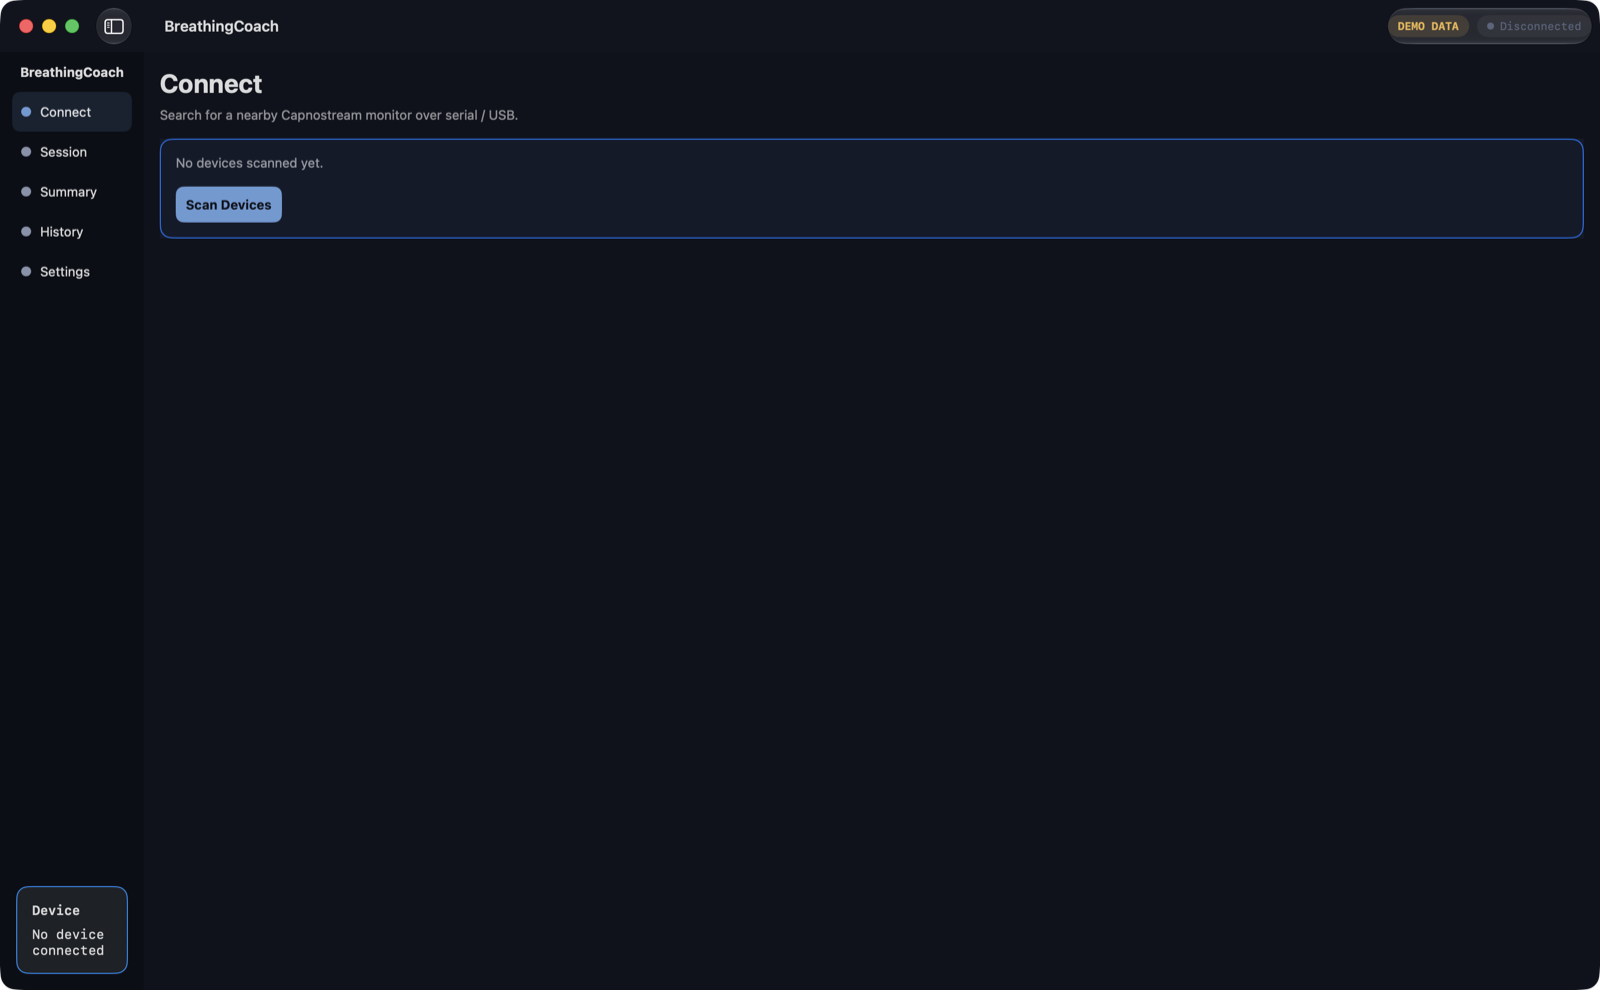
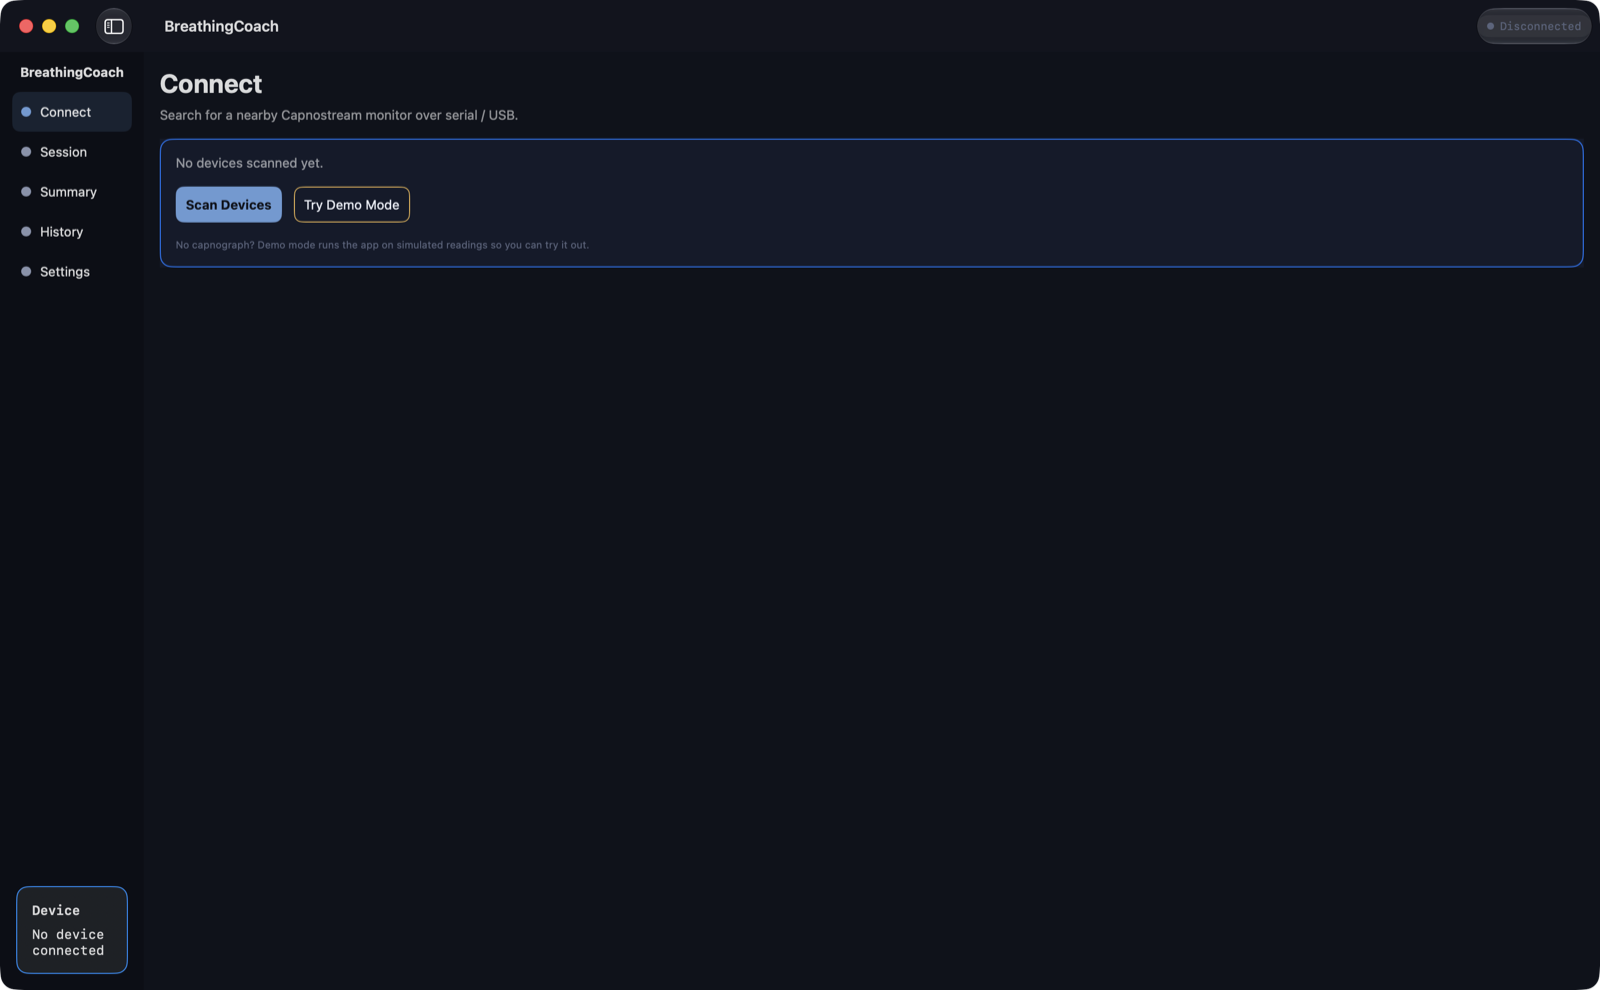
feat(demo): offer demo mode from the UI instead of a launch argument only
Demo mode could only be reached by relaunching with -BCDemoMode YES, which
is fine for development but useless to someone who just wants to try the
app without a capnograph.

Make DemoMode an observable singleton that persists the choice, add a
Settings switch, and put a "Try Demo Mode" button on the Connect empty
state — the one screen where a user without hardware gets stuck. Turning
it off disconnects, since the fake device only exists while it is on. The
DEMO DATA badge and the localized warnings are unchanged.

Also makes the CapnostreamKit dependency prominent in the README rather
than only listed in the dependency table.

Changed region(s): [[0.0938, 0.1818, 0.375, 0.2727], [0.8438, 0.0, 0.9375, 0.0606]]

diff --git a/BreathingCoach/Model/DemoMode.swift b/BreathingCoach/Model/DemoMode.swift
@@ -1,22 +1,36 @@
 import Foundation
+import Observation
 
 /// A device-free mode that drives the app with obviously synthetic readings.
 ///
-/// It exists so the session, summary and history screens can be developed, previewed and captured
-/// for documentation without a capnograph attached. It is **off** unless explicitly requested at
-/// launch, and while it is on the UI says so, because readings the user cannot tell apart from real
-/// ones would be exactly the wrong thing for this app to show.
+/// It lets someone without a capnograph try the full flow — connect, train, review — and lets the
+/// session screens be developed, previewed and captured for documentation without hardware.
 ///
-/// Enable it by launching with the flag:
+/// It is **off** until switched on, either from Settings (or the Connect screen) or by launching
+/// with `-BCDemoMode YES`, and while it is on the window shows a `DEMO DATA` badge, because readings
+/// the user cannot tell apart from real ones would be exactly the wrong thing for this app to show.
 ///
-/// ```sh
-/// open -n BreathingCoach.app --args -BCDemoMode YES
-/// ```
-///
-/// or by adding `-BCDemoMode YES` to the scheme's launch arguments in Xcode.
-enum DemoMode {
-    /// Whether this launch is running on synthetic data.
-    static let isEnabled = UserDefaults.standard.bool(forKey: "BCDemoMode")
+/// The choice is remembered between launches.
+@Observable
+final class DemoMode {
+    static let shared = DemoMode()
+
+    private static let defaultsKey = "BCDemoMode"
+
+    /// Whether the app is currently running on synthetic data.
+    ///
+    /// This in-memory value is the source of truth once the app is running, so toggling in the UI
+    /// takes effect even when the launch argument set the initial value.
+    private(set) var isEnabled: Bool
+
+    private init() {
+        isEnabled = UserDefaults.standard.bool(forKey: Self.defaultsKey)
+    }
+
+    func setEnabled(_ isEnabled: Bool) {
+        self.isEnabled = isEnabled
+        UserDefaults.standard.set(isEnabled, forKey: Self.defaultsKey)
+    }
 
     /// The fake monitors offered by a demo scan. Named so they cannot be mistaken for real hardware.
     static let devices: [SerialDevice] = [

diff --git a/BreathingCoach/Features/Settings/Components/DemoModeSettingsCard.swift b/BreathingCoach/Features/Settings/Components/DemoModeSettingsCard.swift
@@ -1,0 +1,50 @@
+import SwiftUI
+
+/// Switches demo mode on or off.
+///
+/// Turning it off disconnects, because the connected "device" only exists while demo mode is on.
+struct DemoModeSettingsCard: View {
+    let viewModel: ConnectViewModel
+
+    @State private var demoMode = DemoMode.shared
+
+    var body: some View {
+        SettingsCard(
+            title: "Demo Mode",
+            subtitle: "Try the app without a capnograph. Readings are simulated — never use them for anything clinical."
+        ) {
+            VStack(alignment: .leading, spacing: 10) {
+                Toggle("Use simulated readings", isOn: binding)
+                    .toggleStyle(.switch)
+                    .tint(Color.bcWarning)
+
+                if demoMode.isEnabled {
+                    Text("Demo mode is on. Every value in the app is generated, and the window shows a DEMO DATA badge.")
+                        .font(.caption)
+                        .foregroundStyle(Color.bcWarning)
+                        .fixedSize(horizontal: false, vertical: true)
+                }
+            }
+        }
+    }
+
+    private var binding: Binding<Bool> {
+        Binding(
+            get: { demoMode.isEnabled },
+            set: { isEnabled in
+                // The connection belongs to whichever mode created it, so end it either way.
+                if viewModel.isConnected {
+                    viewModel.disconnect()
+                }
+                demoMode.setEnabled(isEnabled)
+            }
+        )
+    }
+}
+
+#Preview(traits: .sizeThatFitsLayout) {
+    DemoModeSettingsCard(viewModel: ConnectViewModel())
+        .frame(width: 480)
+        .padding()
+        .background(Color.bcBackground)
+}

diff --git a/BreathingCoach/Features/Connect/ConnectEmptyView.swift b/BreathingCoach/Features/Connect/ConnectEmptyView.swift
@@ -1,19 +1,40 @@
 import SwiftUI
 
 /// The Connect screen's starting state, before any scan has run.
+///
+/// This is where someone without a capnograph gets stuck, so it also offers demo mode — the one
+/// place in the app where that offer is genuinely useful.
 struct ConnectEmptyView: View {
     let scanAction: Action
+    let startDemoAction: Action
 
-    init(scanAction: @escaping Action = {}) {
+    @State private var demoMode = DemoMode.shared
+
+    init(scanAction: @escaping Action = {}, startDemoAction: @escaping Action = {}) {
         self.scanAction = scanAction
+        self.startDemoAction = startDemoAction
     }
 
     var body: some View {
         VStack(alignment: .leading, spacing: 16.0) {
             Text("No devices scanned yet.")
                 .foregroundStyle(Color.secondary)
-            Button("Scan Devices", action: scanAction)
-                .buttonStyle(.bcFilled(color: Color.bcAccent))
+
+            HStack(spacing: 12) {
+                Button("Scan Devices", action: scanAction)
+                    .buttonStyle(.bcFilled(color: Color.bcAccent))
+
+                if !demoMode.isEnabled {
+                    Button("Try Demo Mode", action: startDemoAction)
+                        .buttonStyle(.bcOutline(color: Color.bcWarning))
+                }
+            }
+
+            if !demoMode.isEnabled {
+                Text("No capnograph? Demo mode runs the app on simulated readings so you can try it out.")
+                    .font(.caption)
+                    .foregroundStyle(Color.bcTextTertiary)
+            }
         }
         .frame(maxWidth: .infinity, alignment: .leading)
         .padding()

diff --git a/BreathingCoach/Features/Connect/ConnectViewModel.swift b/BreathingCoach/Features/Connect/ConnectViewModel.swift
@@ -86,7 +86,7 @@ final class ConnectViewModel {
     func searchSerialDevices() async {
         try? await Task.sleep(for: .seconds(1))
 
-        guard !DemoMode.isEnabled else {
+        guard !DemoMode.shared.isEnabled else {
             serialDevices = DemoMode.devices
             return
         }
@@ -113,7 +113,7 @@ final class ConnectViewModel {
 
         log("Opening \(device.path) @ \(device.baudRate) baud")
 
-        if DemoMode.isEnabled {
+        if DemoMode.shared.isEnabled {
             try await connectToDemoDevice(device)
             return
         }
@@ -186,7 +186,7 @@ final class ConnectViewModel {
     /// Does nothing when no device is connected. Any previously recorded samples are discarded —
     /// call `endSession()` first if the current session should be kept.
     func startSession() {
-        guard DemoMode.isEnabled || currentClient != nil else { return }
+        guard DemoMode.shared.isEnabled || currentClient != nil else { return }
 
         log("→ Start Realtime Communication (0x09)", highlight: .bcAccent)
 

diff --git a/BreathingCoach/Features/Connect/ConnectComposer.swift b/BreathingCoach/Features/Connect/ConnectComposer.swift
@@ -23,7 +23,13 @@ struct ConnectComposer: View {
                     ConnectFlow(
                         currentStep: router.currentStep,
                         initial: {
-                            ConnectEmptyView(scanAction: router.startSearch)
+                            ConnectEmptyView(
+                                scanAction: router.startSearch,
+                                startDemoAction: {
+                                    DemoMode.shared.setEnabled(true)
+                                    router.startSearch()
+                                }
+                            )
                         },
                         searching: {
                             ConnectProgressView()

diff --git a/BreathingCoach/Features/Settings/SettingsComposer.swift b/BreathingCoach/Features/Settings/SettingsComposer.swift
@@ -16,6 +16,7 @@ struct SettingsComposer: View {
                     UnitsSettingsCard(viewModel: viewModel)
                     CustomPaceSettingsCard(viewModel: viewModel)
                     GuideSettingsCard(customPaceBreathsPerMinute: viewModel.customPaceBreathsPerMinute)
+                    DemoModeSettingsCard(viewModel: viewModel)
                     AboutSettingsCard(showOnboarding: showOnboarding)
                 }
                 .frame(maxWidth: 560, alignment: .leading)

diff --git a/BreathingCoach/Components/ConnectionStatusPill.swift b/BreathingCoach/Components/ConnectionStatusPill.swift
@@ -19,7 +19,7 @@ struct ConnectionStatusPill: View {
 
     var body: some View {
         HStack(spacing: 8) {
-            if DemoMode.isEnabled {
+            if DemoMode.shared.isEnabled {
                 demoBadge
             }
 

diff --git a/README.md b/README.md
@@ -4,7 +4,8 @@
 
 # BreathingCoach
 
-**Guided breathing training with live capnography biofeedback on macOS.**
+**Guided breathing training with live capnography biofeedback on macOS,
+reading EtCO₂ from a Capnostream monitor via [CapnostreamKit](https://github.com/LinkAndreas/CapnostreamKit).**
 
 [![CI](https://github.com/LinkAndreas/BreathingCoach/actions/workflows/ci.yml/badge.svg)](https://github.com/LinkAndreas/BreathingCoach/actions/workflows/ci.yml)
 [![License: MIT](https://img.shields.io/badge/License-MIT-blue.svg)](LICENSE)
@@ -25,6 +26,13 @@
 BreathingCoach turns a Capnostream capnography monitor into a breathing-training biofeedback loop.
 You pick a breathing technique, follow the on-screen pacer, and watch your end-tidal CO₂ (EtCO₂),
 respiration rate and SpO₂ respond in real time — then review how the session went.
+
+The serial link to the monitor — port discovery, the handshake and the streaming protocol — is
+handled by [**CapnostreamKit**](https://github.com/LinkAndreas/CapnostreamKit), a separate Swift
+package. This repository is the app on top of it.
+
+**No capnograph?** Turn on [demo mode](#demo-mode) from the Connect screen and the whole app runs on
+simulated readings.
 
 - **Connect** — discover serial/USB devices, run the handshake, and follow the connection with a
   live console log and status pill.
@@ -95,15 +103,21 @@ work; only live data requires a monitor.
 
 ## Demo mode
 
-The session screens need a monitor streaming data, which makes them awkward to develop against and
-impossible to screenshot without hardware. Demo mode fills that gap: it serves fake devices, fakes
-the handshake, and generates a shaped capnogram plus matching EtCO₂, RR and SpO₂.
+Everything past the Connect screen needs a monitor streaming data. Demo mode stands in for one: it
+serves fake devices, fakes the handshake, and generates a shaped capnogram plus matching EtCO₂, RR
+and SpO₂ — so you can try the full flow, or develop the session screens, with no hardware at all.
 
-```bash
-open -n BreathingCoach.app --args -BCDemoMode YES
-```
+Turn it on either way:
 
-In Xcode, add `-BCDemoMode YES` to the scheme's launch arguments.
+- **In the app** — press **Try Demo Mode** on the Connect screen, or use the switch in Settings.
+  The choice is remembered between launches; turning it off disconnects the fake device.
+- **At launch** — useful for development and for scripted screenshots:
+
+  ```bash
+  open -n BreathingCoach.app --args -BCDemoMode YES
+  ```
+
+  In Xcode, add `-BCDemoMode YES` to the scheme's launch arguments.
 
 It is **off** unless asked for at launch, the fake devices are named `(Demo)`, and while it is on the
 window shows a `DEMO DATA` badge — readings a user could mistake for real measurements are the one

diff --git a/CONTRIBUTING.md b/CONTRIBUTING.md
@@ -15,8 +15,8 @@ By participating you agree to the [Code of Conduct](CODE_OF_CONDUCT.md).
 
 ## Development setup
 
-Requirements: macOS 27+, Xcode 27+. Hardware is optional: run with `-BCDemoMode YES` in the scheme's
-launch arguments and the app serves fake devices and synthetic readings, so the session, summary and
+Requirements: macOS 27+, Xcode 27+. Hardware is optional: switch on demo mode in Settings, or run
+with `-BCDemoMode YES` in the scheme's launch arguments, and the app serves fake devices and synthetic readings, so the session, summary and
 history screens work without a capnograph. Anything you change there must keep the `DEMO DATA` badge
 visible — simulated readings must never be mistakable for real ones.
 

diff --git a/CHANGELOG.md b/CHANGELOG.md
@@ -9,8 +9,9 @@ and this project adheres to [Semantic Versioning](https://semver.org/spec/v2.0.0
 
 ### Added
 
-- Demo mode (`-BCDemoMode YES`): fake devices and synthetic readings so the session screens can be
-  run without a capnograph, with a permanent `DEMO DATA` badge while it is active.
+- Demo mode: fake devices and synthetic readings so the whole app can be used without a capnograph,
+  with a permanent `DEMO DATA` badge while it is active. Switch it on from the Connect screen or
+  Settings, or launch with `-BCDemoMode YES`.
 - Screenshots of every screen in the README.
 
 ### Changed
